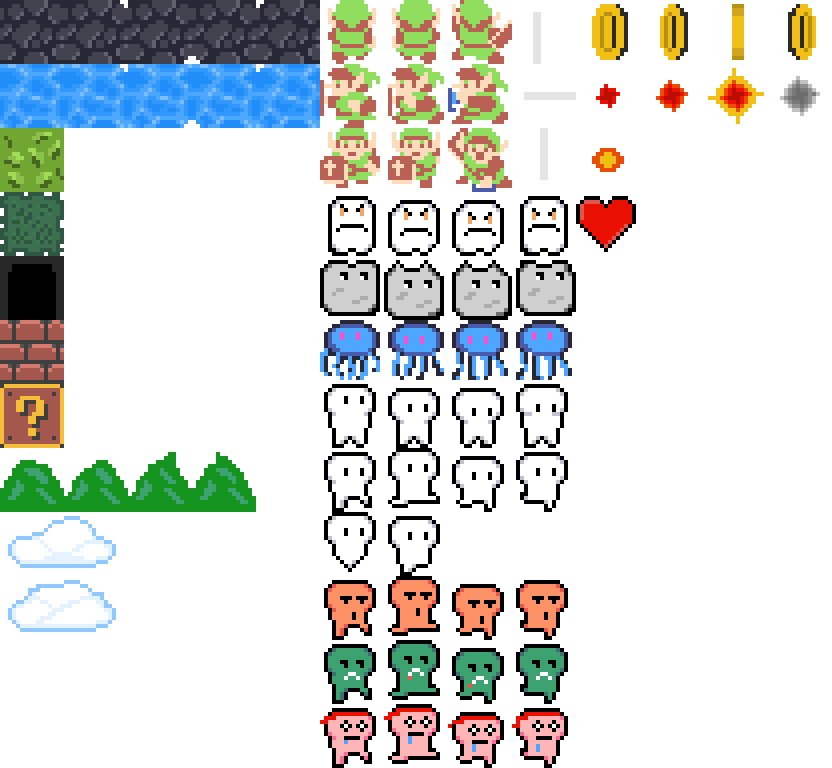
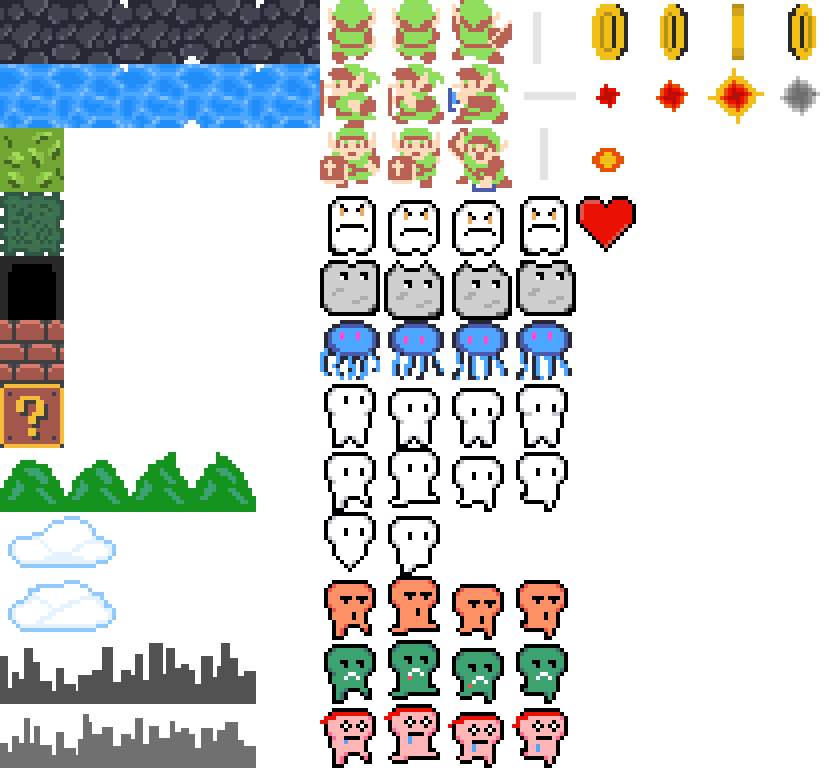
Add background layers

Changed region(s): [[0.0, 0.8438, 0.3125, 1.0]]

diff --git a/src/Assets.hpp b/src/Assets.hpp
@@ -7,6 +7,7 @@
 #include <SFML/Audio.hpp>
 
 #include "Animation.hpp"
+#include "Layer.hpp"
 #include "math/Vec2.hpp"
 
 class Assets
@@ -18,15 +19,15 @@ class Assets
 	std::map<std::string, sf::SoundBuffer> m_sound_buffer_map;
 	std::map<std::string, sf::Sound> m_sound_map;
 	std::map<std::string, std::shared_ptr<sf::Music>> m_music_map;
+	std::map<std::string, Layer> m_layer_map;
 
-	// sf::Texture m_texture_atlas;
-
-	void addTexture(const std::string& texture_name, const std::string& path, bool smooth = true);
+	void addTexture(const std::string& texture_name, const std::string& path, bool smooth = false);
 	void addAnimation(const std::string& animation_name, const std::string& texture_name, size_t frame_count, int speed, Vec2 size, Vec2 offset);
 	void addFont(const std::string& font_name, const std::string& path);
 	void addSoundBuffer(const std::string& sound_name, const std::string& path);
 	void addSound(const std::string& sound_name, const std::string& path);
 	void addMusic(const std::string& music_name, const std::string& path);
+	void addLayer(const std::string& layer_name, const std::string& texture_name, Vec2 size, Vec2 offset);
 
 	const sf::SoundBuffer& getSoundBuffer(const std::string& sound_name) const;
 
@@ -38,4 +39,5 @@ public:
 	const sf::Font& getFont(const std::string& font_name) const;
 	sf::Sound getSound(const std::string& sound_name) const;
 	const std::shared_ptr<sf::Music> getMusic(const std::string& music_name) const;
+	const Layer& getLayer(const std::string& layer_name) const;
 };

diff --git a/src/SceneSideScroller.cpp b/src/SceneSideScroller.cpp
@@ -169,6 +169,10 @@ void SceneSideScroller::loadLevel(const std::string& path) {
                 auto checkpoint = m_entity_manager.addEntity(Tag::CHECKPOINT);
                 checkpoint->addComponent<CBBox>(Vec2(bbox_w, bbox_h));
                 checkpoint->addComponent<CTransform>(gridToMidPixel(x, y, checkpoint));
+            } else if (asset_type == "Background") {
+                std::string layer;
+                text_stream >> layer;
+                m_backgrounds.push_back(m_engine->assets().getLayer(layer));
             } else {
                 std::cerr << "Unknown level object: " << asset_type << '\n';
                 // TODO: handle this error
@@ -496,6 +500,13 @@ void SceneSideScroller::sCamera() {
 
 void SceneSideScroller::sRender() {
     m_engine->window().clear(sf::Color(70, 80, 255));
+
+    // Draw backgrounds
+    for (auto background : m_backgrounds) {
+        background.getSprite().scale(m_engine->window().getSize().x / 128, m_engine->window().getSize().y / 64);
+        background.getSprite().setPosition(m_engine->window().getSize().x/2, m_engine->window().getSize().y/2);
+        m_engine->window().draw(background.getSprite());
+    }
 
     // Draw all Entity textures/animations
     if (m_draw_textures) {

diff --git a/src/Assets.cpp b/src/Assets.cpp
@@ -44,6 +44,11 @@ void Assets::loadFromFile(const std::string& path) {
 				std::string name, music_path;
 				text_stream >> name >> music_path;
 				addMusic(name, music_path);
+			} else if (asset_type == "Layer") {
+				std::string name, texture;
+				int w, h, offset_x, offset_y;
+				text_stream >> name >> texture >> w >> h >> offset_x >> offset_y;
+				addLayer(name, texture, Vec2(w, h), Vec2(offset_x, offset_y));
 			} else {
 				std::cerr << "Unknown asset type: " << asset_type << '\n';
 			}
@@ -139,4 +144,14 @@ void Assets::addMusic(const std::string& music_name, const std::string& path) {
 const std::shared_ptr<sf::Music> Assets::getMusic(const std::string& music_name) const {
 	assert(m_music_map.find(music_name) != m_music_map.end());
 	return m_music_map.at(music_name);
+}
+
+
+void Assets::addLayer(const std::string& layer_name, const std::string& texture_name, Vec2 size, Vec2 offset) {
+	m_layer_map[layer_name] = Layer(layer_name, getTexture(texture_name), size, offset);
+}
+
+const Layer& Assets::getLayer(const std::string& layer_name) const {
+	assert(m_layer_map.find(layer_name) != m_layer_map.end());
+	return m_layer_map.at(layer_name);
 }

diff --git a/src/Layer.cpp b/src/Layer.cpp
@@ -1,0 +1,21 @@
+#include "Layer.hpp"
+
+Layer::Layer(const std::string& name, const sf::Texture& texture, Vec2 size, Vec2 offset)
+    : m_name(name), m_sprite(texture), m_size(size), m_offset(offset) {
+    m_sprite.setOrigin(m_size.x / 2.0f, m_size.y / 2.0f);
+    m_sprite.setTextureRect(sf::IntRect(
+        static_cast<int>(m_offset.x),
+        static_cast<int>(m_offset.y),
+        static_cast<int>(m_size.x),
+        static_cast<int>(m_size.y)
+    ));
+}
+
+void Layer::update(Vec2 velocity) {
+    m_sprite.setTextureRect(sf::IntRect(
+        static_cast<int>(m_offset.x + velocity.x),
+        static_cast<int>(m_offset.y),
+        static_cast<int>(m_size.x),
+        static_cast<int>(m_size.y)
+    ));
+}

diff --git a/src/Layer.hpp b/src/Layer.hpp
@@ -1,0 +1,21 @@
+#pragma once
+
+#include <SFML/Graphics.hpp>
+#include <string>
+
+#include "math/Vec2.hpp"
+
+class Layer {
+    std::string m_name;
+    sf::Sprite m_sprite;
+    Vec2 m_size{ 0, 0};
+    Vec2 m_offset{ 0, 0};
+
+public:
+    Layer() = default;
+    Layer(const std::string& name, const sf::Texture& texture, Vec2 size, Vec2 offset);
+
+    void update(Vec2 velocity);
+
+    sf::Sprite& getSprite() { return m_sprite; }
+};

diff --git a/src/Scene.hpp b/src/Scene.hpp
@@ -7,6 +7,7 @@
 #include "EntityManager.hpp"
 #include "Action.hpp"
 #include "ParticleSystem.hpp"
+#include "Layer.hpp"
 
 class GameEngine;
 
@@ -114,6 +115,7 @@ class SceneSideScroller: public Scene
 	const Vec2 m_grid_size{ 64, 64 };
 	sf::Text m_grid_text;
 	sf::Text m_pause_text;
+	std::vector<Layer> m_backgrounds;
 
 	Vec2 m_mouse_pos;
 	sf::CircleShape m_mouse_shape;
